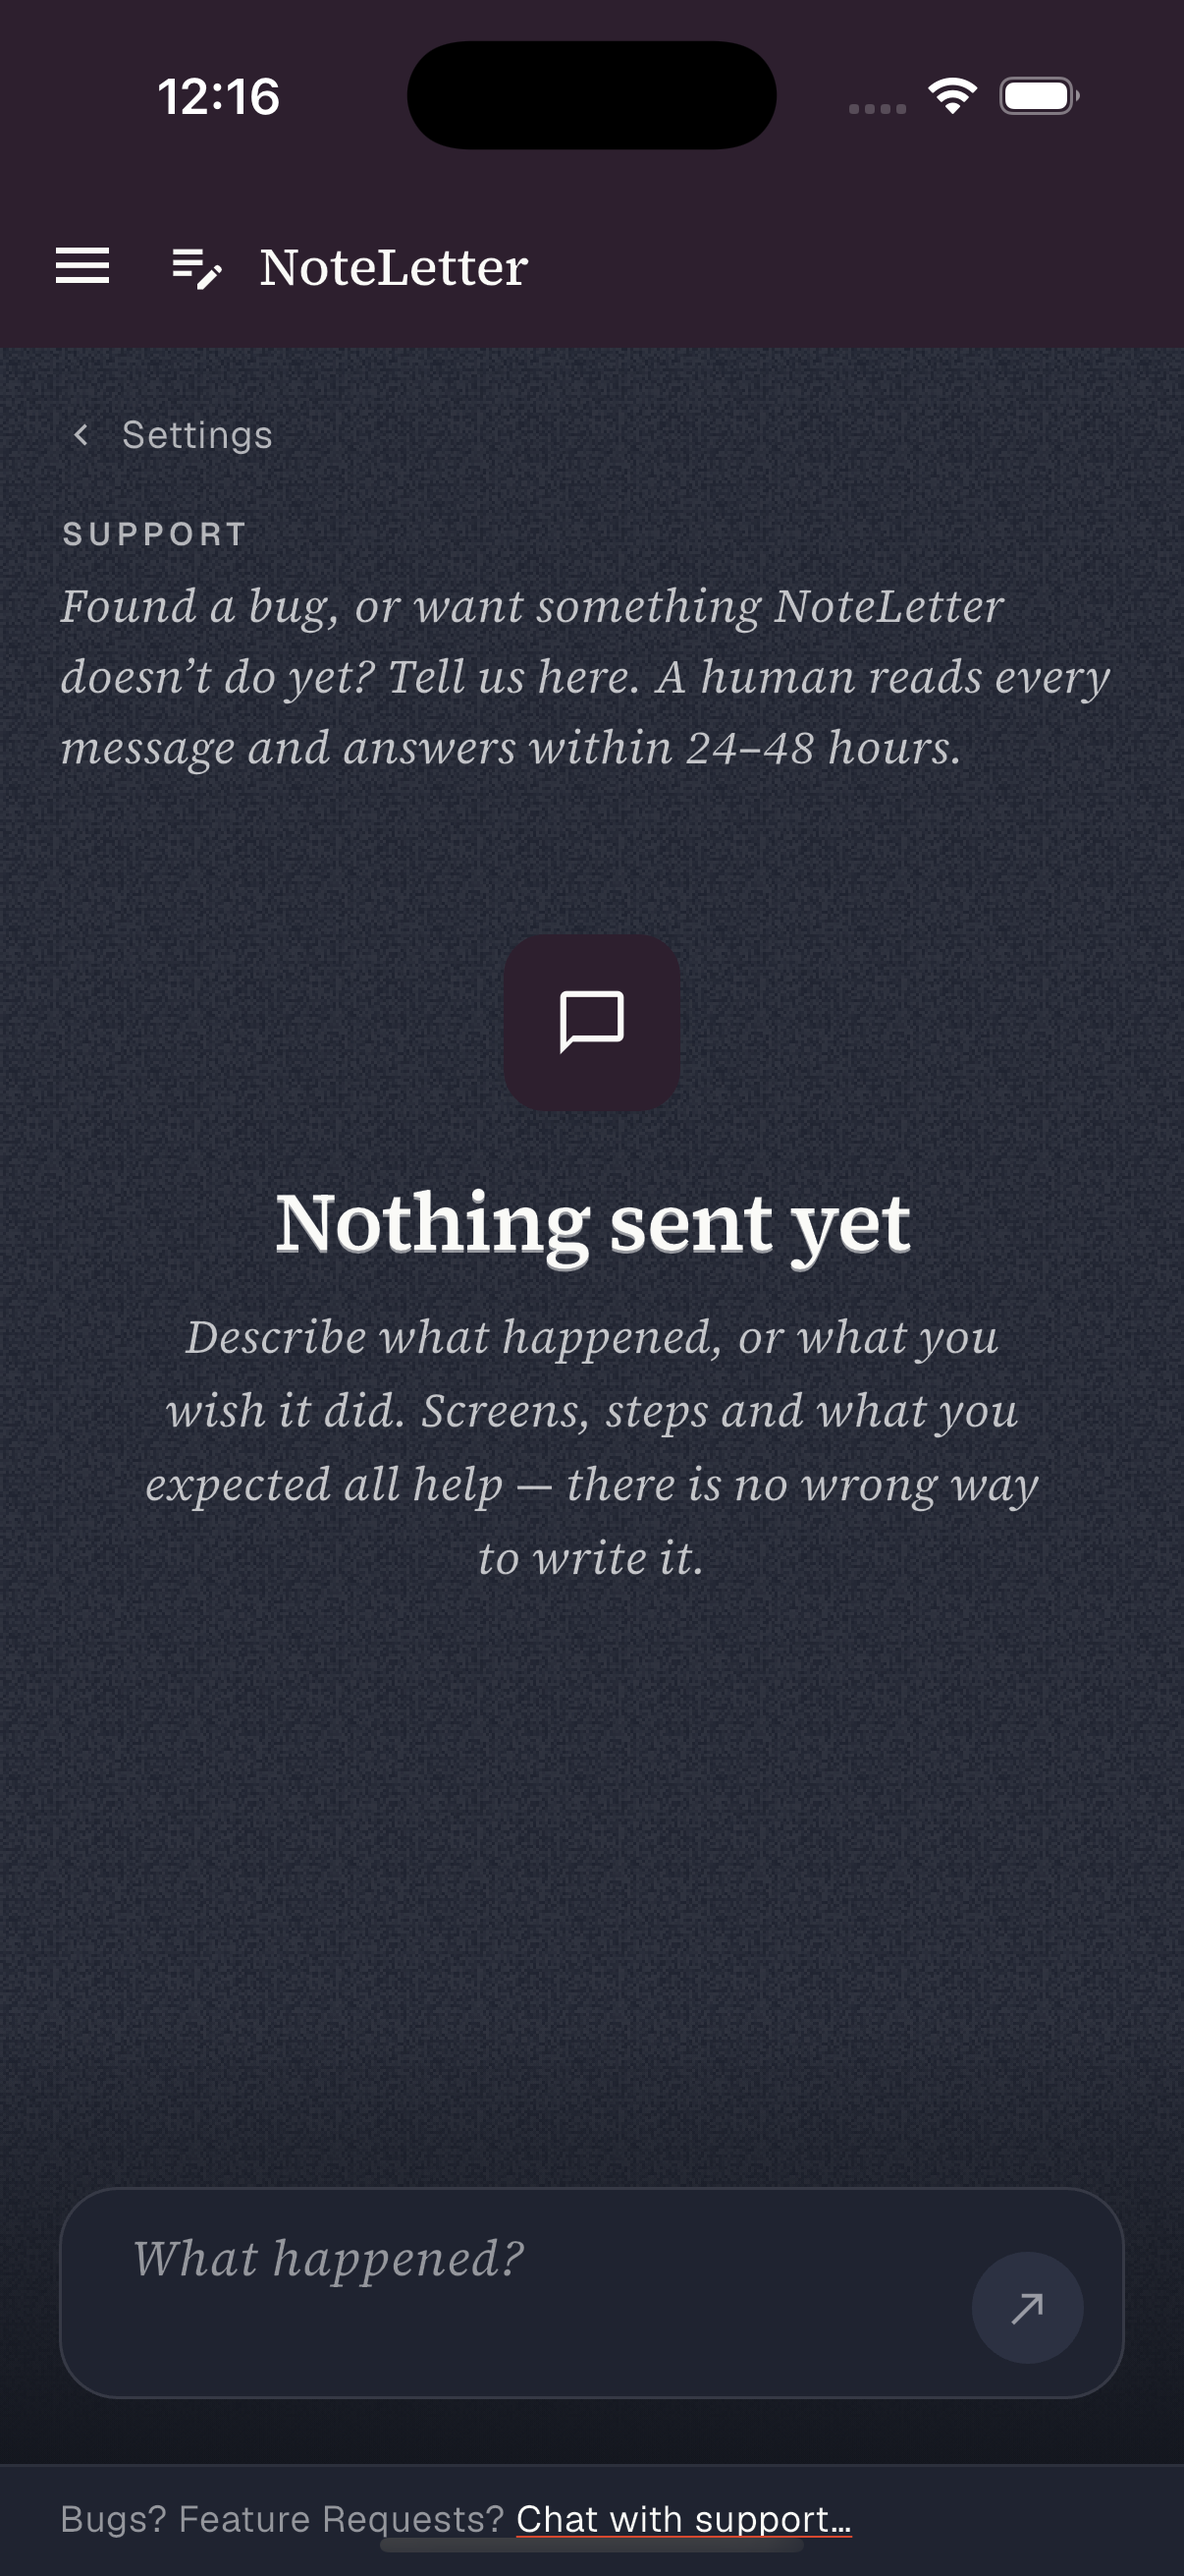
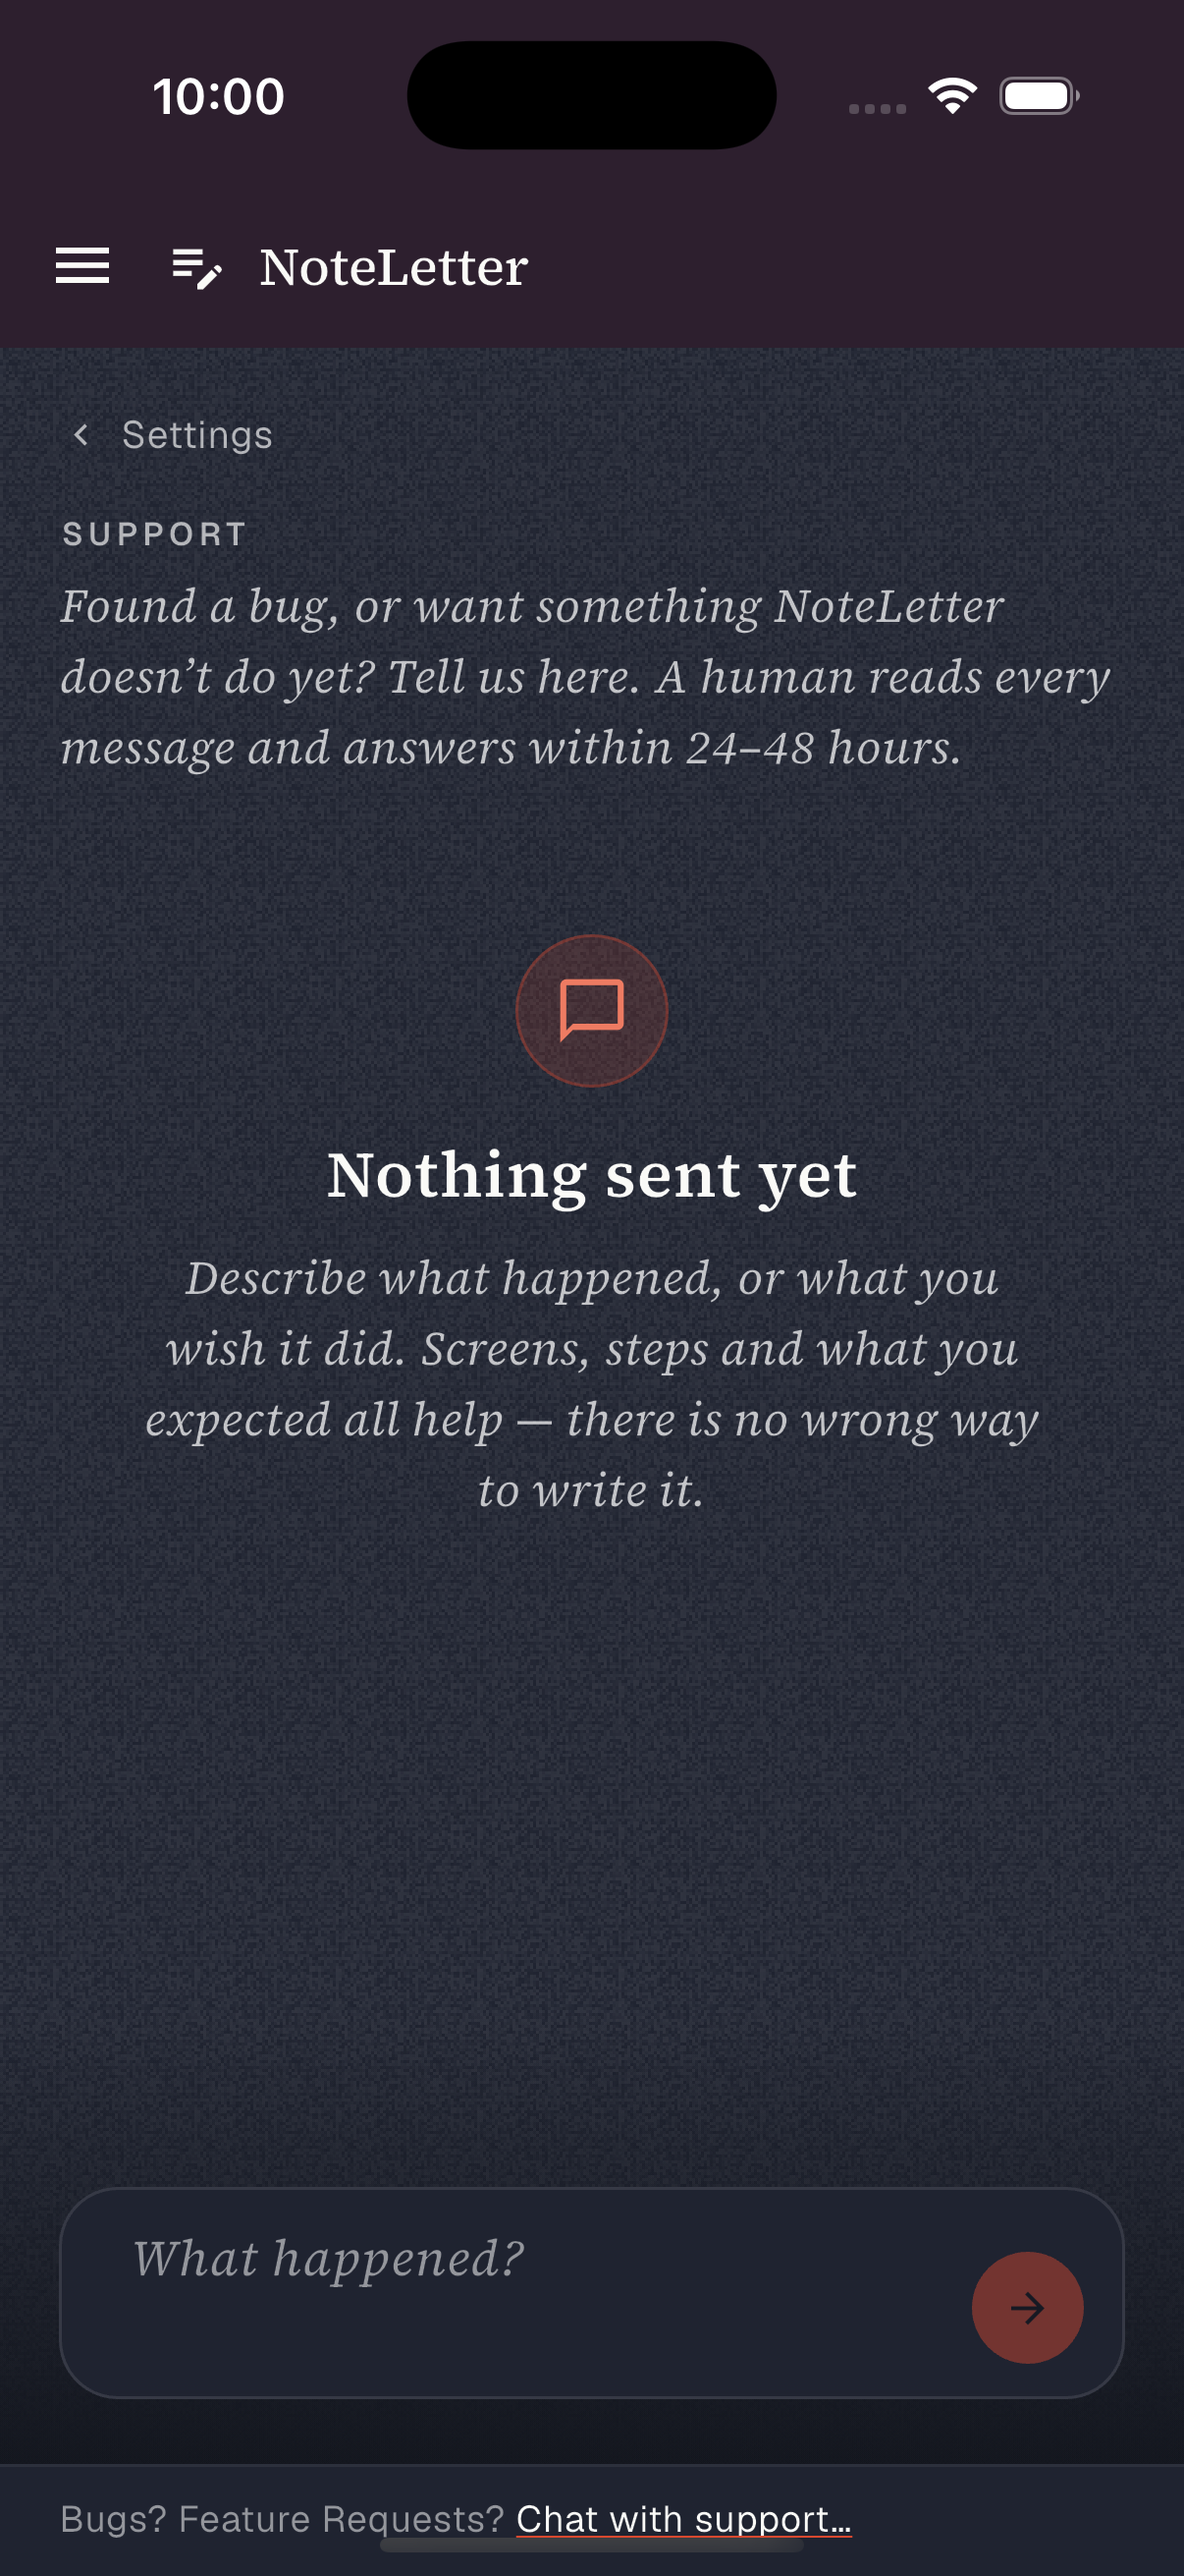
Support: the quiet empty state and the accent send control (F-52, support.md §Composition, component-kit §7 §10)
KitEmptyState `quiet` (`.sup-empty`: accent-soft disc, seal glyph, serif
22/30 over a 16/24 lede); the composer's send control is always --accent with
a right arrow, 0.45 when disabled (Ask's composer moves with it).

Pair read (light, dark, web phone): matches in both themes.

QUEUE: F-50, F-51, F-52 done (each pair shot and read); F-53 (letter
preview + Draw from) and F-54 (library checklist, search row, spine views)
booked open.

Gates: analyze clean · contract+kit 842 passed (pin excluded by policy)
       · queue lint 0 problems · pair support light+dark refreshed
Pin stays 4.4.0.

Claude-Session: https://claude.ai/code/session_01WEYcyK1SsWKiesC6Pgdho6

Changed region(s): [[0.1227, 0.3398, 0.859, 0.6178], [0.8284, 0.865, 0.9204, 0.9268], [0.1227, 0.0309, 0.2454, 0.0618]]

diff --git a/lib/pages/support_page.dart b/lib/pages/support_page.dart
@@ -129,6 +129,7 @@ class _SupportPageState extends State<SupportPage> {
                 // The empty state IS the offer: the composer below is the
                 // action, so this pattern carries no call-to-action button.
                 const KitEmptyState(
+                  quiet: true,
                   icon: Icons.chat_bubble_outline,
                   title: 'Nothing sent yet',
                   standfirst:

diff --git a/QUEUE.md b/QUEUE.md
@@ -942,3 +942,68 @@ a new obligation on a finished screen is a new item.
 - shots: letter-settings
 - extra_gates: python3 ../NoteLetter-contracts/harness/upload_set_check.py
 - notes: (1) 4.94.0 Flutter tandem, web reference NoteLetter-web@42160c1: the import picker's exportable subtitle reads `mimeType` (cloudExportLabel) — PDF / PowerPoint / the pre-4.94.0 native Doc mime as PDF, an unmapped mime no label; `uploadRejection` refuses every `application/vnd.google-apps.*` mime with the generic unsupported-type sentence (the Slides deck's native mime matched `contains presentation`). The sync-folder picker is folders-only and draws no export label. (2) reshelve_sheet.dart (F-41) drew web's `.bf-lede` in the italic `KitText.lede`; it moves to F-38's `KitText.reviewLede`/`reviewEm` with the counts and shelf name emphasised as ShelfForm.jsx does. (3) Mono KitTextField took Material bodyLarge's 0.5 letter-spacing (F-38 pinned serif/sans only); pinned to 0 so a data field draws at web `.timefield`'s width — shot on letter-settings, whose Send-to field is the first mono field above any fold. (2026-09-25: landed. The Send-to value measures 177.0pt against web's 177.0 CSS px (was 186.3pt). The re-shelve review has NO pair: no HOLD_STATE, no web frame in theme-shots.mjs, and every state but the transient read needs fn_suggest_reshelve's model call, which the 5599 shim answers only under NL_DEV_FAKES=1 — the lede is gated by reshelve_review_test's span assertion instead.)
+
+## F-50 · Sources — the add panel as the reference composes it: Library, What can I add?, processing under the zone
+- status: done 2026-09-25
+- screen: sources
+- route: /sources
+- spec: spec/screens/sources.md §Composition; spec/component-kit.md §3 §7 §15
+- web: src/pages/SourcesBrowse.jsx; src/overlays/SourcesInfoSheet.jsx; src/styles/app-sources-browse.css; src/styles/app-responsive.css
+- flutter: lib/pages/sources_page.dart; lib/pages/sources/browse_section.dart; lib/pages/sources/sources_info_sheet.dart (new); lib/widgets/file_uploader.dart; lib/widgets/kit/kit_headers.dart; lib/widgets/kit/kit_empty.dart
+- folds: none — found by the F-34/F-37 re-shoot pass
+- device_test: none
+- shots: sources
+- extra_gates: python3 ../NoteLetter-contracts/harness/screenshot_pair_check.py
+- notes: Four drifts the pair showed beside the web phone frame. (1) Title `Your *library*` → `Library` (§Composition Header; the rail already calls it Library). (2) The add section's header carries the trailing `What can I add?` help trigger — SectionHeader gains `actionIcon` (web `.si-open`: sans 12.5/500 at --fg-muted, 13px glyph, no underline) — opening a §15 sheet with SourcesInfoSheet.jsx's content word for word. (3) `Being processed · N` moved out of the In-your-library section to directly under the zone and link row (§Composition: 'the processing rows sit directly under it'); the note counts stalled rows as needing attention and says 'passages appear as each finishes' otherwise, as the reference does. (4) The drop zone lost its format pills and the accent upload glyph: KitDropZone now draws `.empty-dropzone` (1.5px dashed, --r-lg, 44/28 padding, glyph at --fg-subtle, serif 22/600, SANS 14 --fg-muted help); pills stay optional (Library's empty state keeps them). The link row is always visible (field + Add link, disabled on an empty field) rather than behind a 'Paste a link' ghost; the field no longer draws the theme's pill outline inside its box. Image-set capture stays as a ghost under the row — a device capability the web has no surface for. Web draws the processing rows as cards with a status pill; the spec says a processing row keeps §4.1 anatomy, so this client keeps the row (spec/web disagreement, reported, not resolved here).
+
+## F-51 · Letter settings — the reference's config form: caps group labels and the tinted schedule card
+- status: done 2026-09-25
+- screen: letter-settings
+- route: /letters/settings
+- spec: spec/screens/letters.md; spec/decisions/ADR-041-composition-is-contract.md
+- web: src/pages/LetterSettings.jsx; src/pages/letters/ReadingsLetter.jsx; src/styles/app-responsive.css; src/styles/app-scripture.css
+- flutter: lib/pages/letter_settings_page.dart; lib/widgets/kit/kit_config.dart (new); lib/widgets/kit/kit_controls.dart; lib/pages/tags/reshelve_sheet.dart
+- folds: none — found by the F-34/F-37 re-shoot pass
+- device_test: none
+- shots: letter-settings
+- extra_gates: python3 ../NoteLetter-contracts/harness/screenshot_pair_check.py
+- notes: The screen was a stack of Settings' icon-plate setting rows under an eyebrow title; the reference is `.letter-config`: back control, a serif 24/600 HEADING with the italic lede, then groups — each a mono caps label (`SCHEDULED DELIVERY`, `SEND TO`, `HOW OFTEN`, `ARRIVES AT`, …) over its control, a hairline --rule between them — opened by a tinted `.cfg-rl` toggle card (accent-chip ground and edge when on, sunken when off; the card writes before it moves, ADR-022). Groups are the existing KitFieldGroup (notification settings and onboarding already use it; it gains the `.cfg-second` variant for the readings letter). New kit parts in kit_config.dart: KitConfigHeading, KitConfigToggle, KitConfigHint (the `.cfg-hint`/`.cfg-note` sentence under an empty Send-to), KitConfigField + KitConfigStatic (the readings letter's `.rl-field`s). KitSelect's value was mono 15 (the text field's data face); web's `.timefield select` is sans 14 and that is now the default — the re-shelve picker passes KitFieldFace.serif for `.ss-input`. No spec section names this form (letters.md §Composition covers the Letters screen only) — reported. Still different, booked separately: the live letter preview + Send now under the form, and `Draw from` shelves. `Your librarian` stays here (the reference edits purposeText from Settings).
+
+## F-52 · Support — the quiet empty state and the accent send control
+- status: done 2026-09-25
+- screen: support
+- route: /support
+- spec: spec/screens/support.md §Composition; spec/component-kit.md §7 §10
+- web: src/pages/SupportView.jsx; src/styles/app-support.css; src/styles/app-kit.css
+- flutter: lib/pages/support_page.dart; lib/widgets/kit/kit_empty.dart; lib/widgets/kit/kit_composer.dart
+- folds: none — found by the F-34/F-37 re-shoot pass
+- device_test: none
+- shots: support
+- extra_gates: python3 ../NoteLetter-contracts/harness/screenshot_pair_check.py
+- notes: Re-shooting the stale pair showed two drifts. (1) The empty thread drew §7's chrome tile and 28px letterpressed title; the reference's `.sup-empty` is a 52px --accent-soft disc with a solid --accent-chip-border edge and the glyph at --seal, over serif 22/30 and a 16/24 lede — KitEmptyState gains `quiet`. (2) §10's send control drew a grey --surface-raised disc with a north-east arrow while it could not fire; the reference's is always --accent with IcoSend's RIGHT arrow, at 0.45 opacity when disabled. Fixed in KitComposerDock, so Ask's composer moves with it (its pairs are re-shot in the same pass).
+
+## F-53 · Letter settings — the live letter preview and Draw from
+- status: open
+- screen: letter-settings
+- route: /letters/settings
+- spec: spec/screens/letters.md; spec/api/newsletter.md
+- web: src/pages/LetterSettings.jsx; src/pages/letters/LetterDocument.jsx
+- flutter: lib/pages/letter_settings_page.dart
+- folds: none — found by the F-34/F-37 re-shoot pass
+- device_test: none
+- shots: letter-settings
+- extra_gates: none
+- notes: Left over after the form was recomposed (F-51). The reference puts the letter itself beside (desktop) or under (phone) the form: `.letter-preview-pane` — today's letter (getNewsletter) rendered through LetterDocument with the first `count` passages, a §14.2 line if it could not be read, and an actions row (`N passages · ~N+1 min read`, Copy, Send now with its sent/failed sentence). This client has no preview and no Send now on this screen. Also `Draw from`: a shelf list with switches whose titles save as `topicFilters` (titles, not ids) in the same PUT; SettingsNotifier.saveLetterSettings already accepts topicFilters. Build both from the kit (§11 Letter sheet for the preview).
+
+## F-54 · Library — the setup checklist, the search field row, and the spine views
+- status: open
+- screen: library
+- route: /
+- spec: spec/screens/library.md §Composition; spec/screens/onboarding.md; spec/component-kit.md §2.1 §5.3
+- web: src/pages/LibraryHome.jsx; src/styles/app-kit.css
+- flutter: lib/pages/library_page.dart
+- folds: none — found by the F-34/F-37 re-shoot pass
+- device_test: none
+- shots: library
+- extra_gates: python3 ../NoteLetter-contracts/harness/screenshot_pair_check.py
+- notes: The 2026-09-25 re-shoot beside the web phone frame. Under the chapter opening the reference draws (1) the setup checklist card — a chevron, a progress bar, `4 of 5 set up`, the next step as a pill (`Ask your library a question`) and Hide; this client has none; (2) a full-width SEARCH FIELD (`Search your library by meaning…`, italic serif placeholder) and, under it on a phone, a full-width `+ Add a source` primary — this client puts a ghost `Search` and an `Add a source` button in the header's actions slot instead; (3) `Recently read` with a list/shelf (spine) view toggle, and `Shelves` with a shelf/card toggle — this client has the list and the card grid only. The Today's-letter hero is absent here for a data reason, not a composition one: web's getNewsletter takes the newest record of any status/kind, this client takes the latest `sent` daily letter with an `html_body`, and the seed's two letters are pre-2.0.0 records with `html` only — so web says 'Today's letter is ready — 0 passages' where this client says the library is being read. Decide which is right before building the hero's appearance rule. Read LibraryHome.jsx for the checklist's steps and its persistence before building it.
